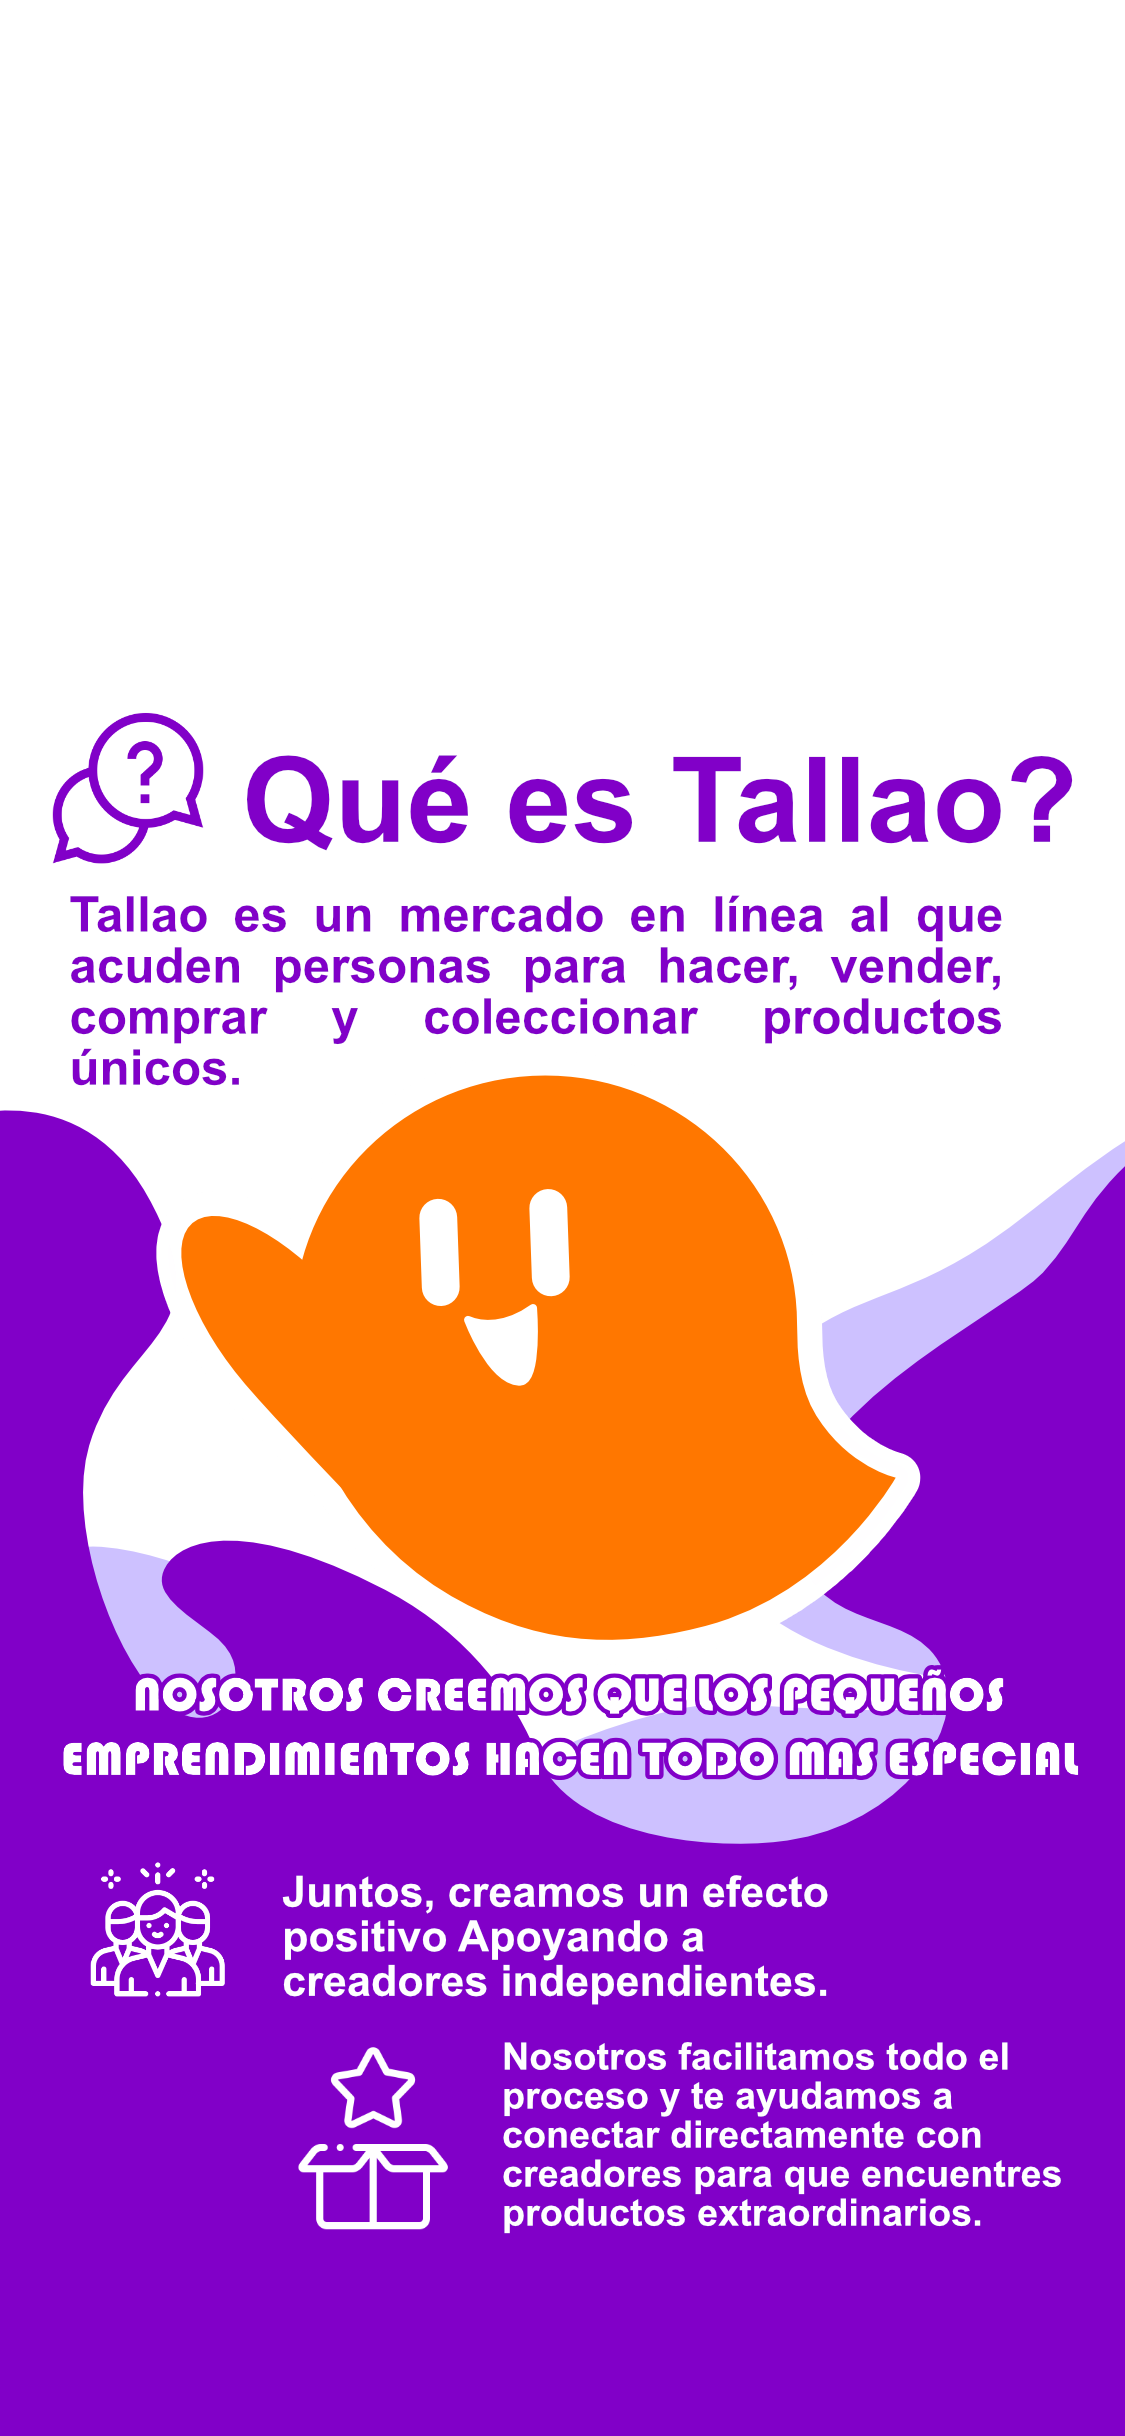
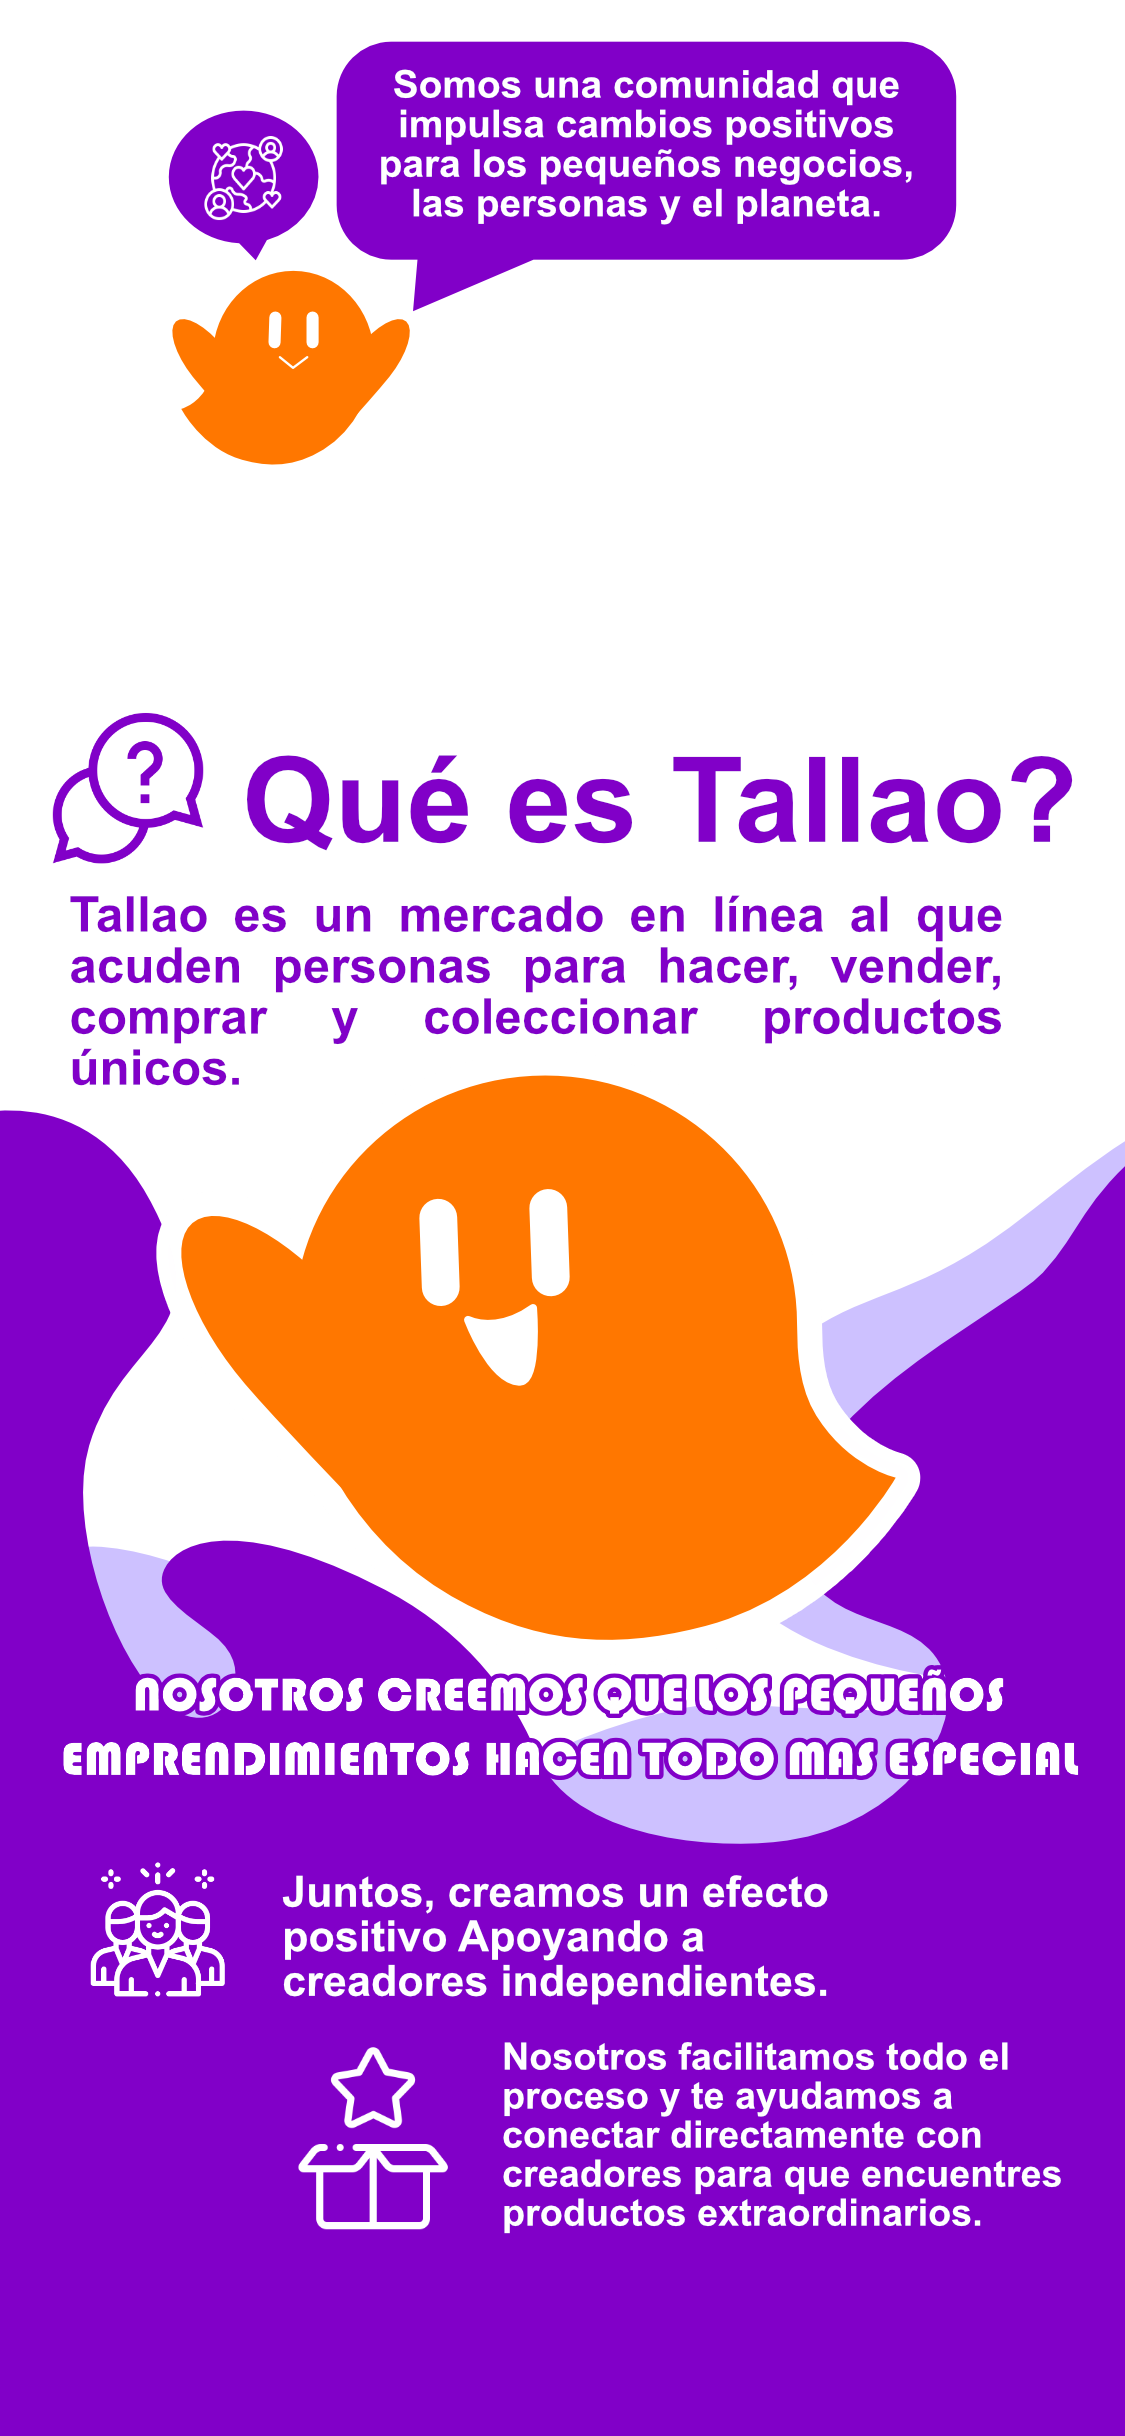
Cambios a Celular

Changed region(s): [[0.1556, 0.0, 0.8711, 0.2184]]

diff --git a/css/estilos.css b/css/estilos.css
@@ -93,3 +93,15 @@ body {
     background-attachment: fill;
   }
 }
+@media only screen and (max-width: 767px) {
+  #section2 {
+    background-image: url('../Assets/Plantilla_Cel2.png');
+    background-attachment: fill;
+  }
+}
+@media only screen and (max-width: 767px) {
+  #section3 {
+    background-image: url('../Assets/Plantilla_Cel3.png');
+    background-attachment: fill;
+  }
+}
